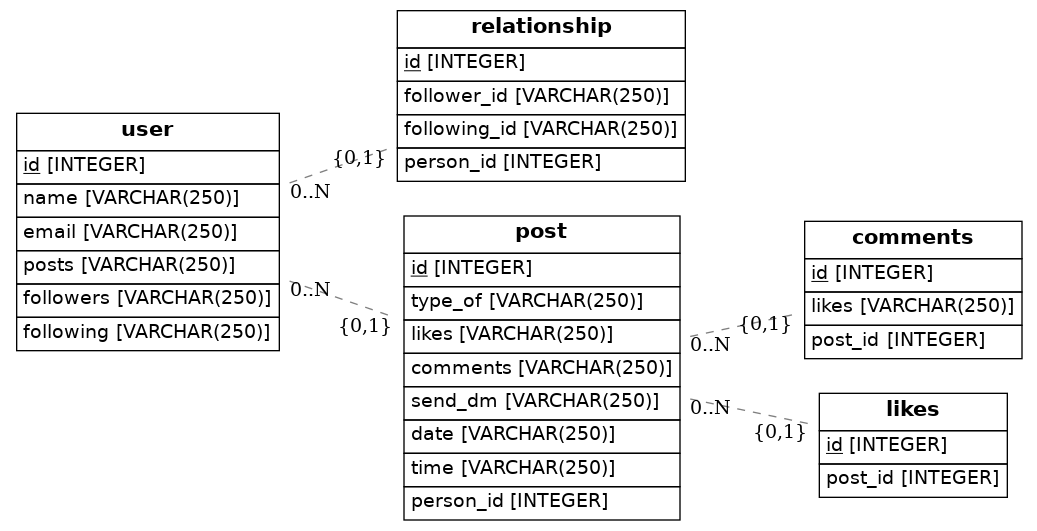
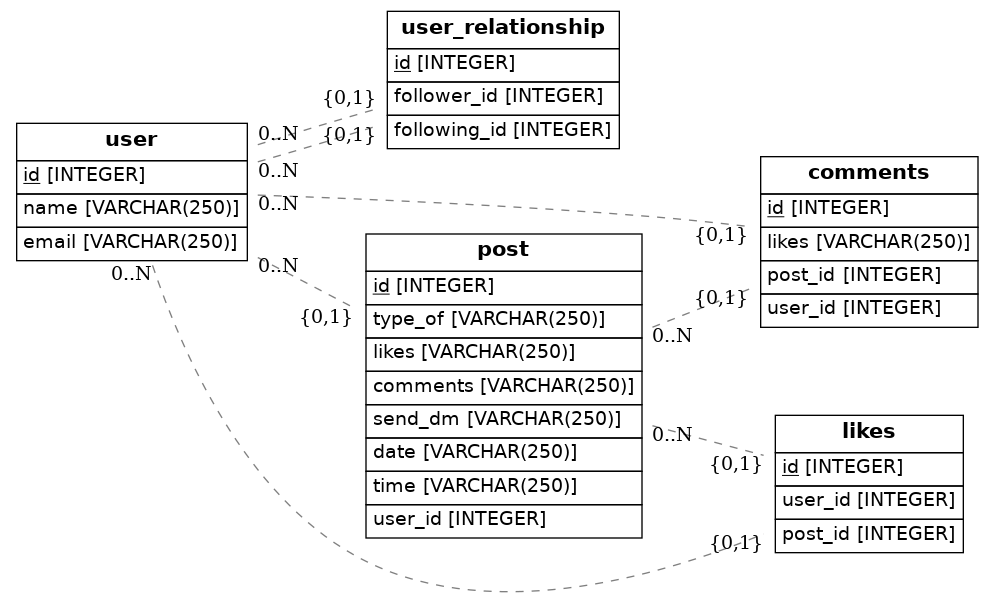
firasdfukkjkst

Changed region(s): [[0.0, 0.0, 0.999, 0.9944], [0.6556, 0.9341, 0.6868, 0.9642]]

diff --git a/src/models.py b/src/models.py
@@ -8,28 +8,14 @@ from eralchemy import render_er
 
 Base = declarative_base()
 
-class User(Base):
-    __tablename__ = 'user'
-    # Here we define columns for the table person
-    # Notice that each column is also a normal Python instance attribute.
-    id = Column(Integer, primary_key=True)
-    name = Column(String(250), nullable=False)
-    email = Column(String(250))
-    posts = Column(String(250))
-    followers = Column(String(250))
-    following = Column(String(250))
 
-class Relationship(Base):
-    __tablename__ = 'relationship'
+class UserRelationship(Base):
+    __tablename__ = 'user_relationship'
     # Here we define columns for the table address.
     # Notice that each column is also a normal Python instance attribute.
     id = Column(Integer, primary_key=True)
-    follower_id = Column(String(250))
-    following_id = Column(String(250))
-    person_id = Column(Integer, ForeignKey('user.id'))
-    person = relationship(User)
-
-
+    follower_id = Column(Integer, ForeignKey('user.id'))
+    following_id = Column(Integer, ForeignKey('user.id'))
 class Post(Base):
     __tablename__ = 'post'
     # Here we define columns for the table address.
@@ -41,8 +27,19 @@ class Post(Base):
     send_dm = Column(String(250))
     date = Column(String(250))
     time = Column(String(250))
-    person_id = Column(Integer, ForeignKey('user.id'))
-    person = relationship(User)
+    user_id = Column(Integer, ForeignKey('user.id'))
+
+class User(Base):
+    __tablename__ = 'user'
+    # Here we define columns for the table person
+    # Notice that each column is also a normal Python instance attribute.
+    id = Column(Integer, primary_key=True)
+    name = Column(String(250), nullable=False)
+    email = Column(String(250))
+    followers = relationship(UserRelationship)
+    following = relationship(UserRelationship)
+
+
 
 class Comments(Base):
     __tablename__ = 'comments'
@@ -50,17 +47,18 @@ class Comments(Base):
     # Notice that each column is also a normal Python instance attribute.
     id = Column(Integer, primary_key=True)
     likes = Column(String(250))
-    post = Column(String(250))
     post_id = Column(Integer, ForeignKey('post.id'))
-    post = relationship(Post)
+    user_id = Column(Integer, ForeignKey('user.id'))
+
 
 class Likes(Base):
     __tablename__ = 'likes'
     # Here we define columns for the table address.
     # Notice that each column is also a normal Python instance attribute.
     id = Column(Integer, primary_key=True)
+    user_id = Column(Integer, ForeignKey('user.id'))
     post_id = Column(Integer, ForeignKey('post.id'))
-    post = relationship(Post)
+
 
 
     def to_dict(self):
